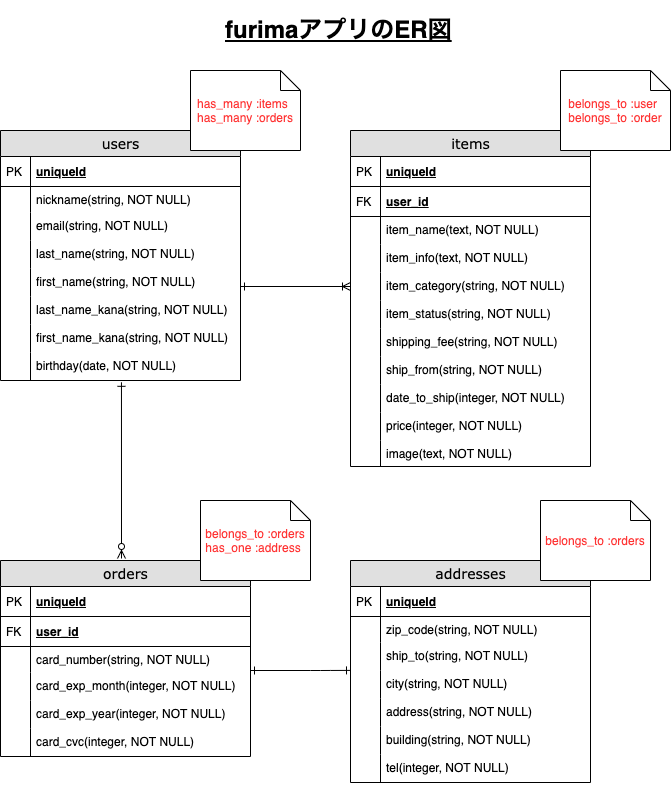
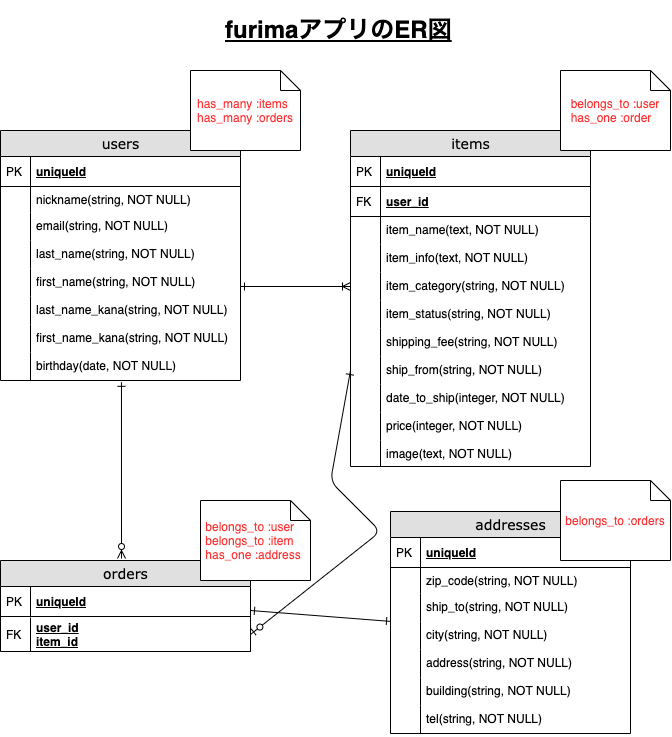
ER図修正&READMEファイル修正
修正完了しました。チェックをお願いします！

diff --git a/README.md b/README.md
@@ -32,40 +32,24 @@
 | ship_from     | string        | null: false      |
 | date_to_ship  | integer		 | null: false      |
 | price         | integer       | null: false      |
-| user_id	    | references    | foregin_key: true |
+| user_id	    | references    | foreign_key: true |
 
 ### Association
 
 - belongs_to :user
+- has_one :order
 
 ## orders テーブル
 
-| Column         | Type  		 | Options 	         |
+| Column         | Type  		    | Options 	        |
 | :------------- | :----------- | :---------------- |
-| card_number    | text  		 | null: false       |
-| card_exp_month | integer      | null: false       |
-| card_exp_year  | integer      | null: false       |
-| card_cvc       | integer      | null: false       |
-| user_id        | references   | foregin_key: true |
+| user_id        | references   | foreign_key: true |
+| item_id        | references   | foreign_key: true |
 
 ### Association
 
 - belongs_to :user
-- has_one :address
-
-## orders テーブル
-
-| Column         | Type  		 | Options 	         |
-| :------------- | :----------- | :---------------- |
-| card_number    | text  		 | null: false       |
-| card_exp_month | integer      | null: false       |
-| card_exp_year  | integer      | null: false       |
-| card_cvc       | integer      | null: false       |
-| user_id        | references   | foregin_key: true |
-
-### Association
-
-- belongs_to :user
+- belongs_to :item
 - has_one :address
 
 ## addresses テーブル
@@ -77,7 +61,7 @@
 | city           | string       | null: false       |
 | address        | string       | null: false       |
 | building       | string       | null: false       |
-| tel            | integer      | null: false       |
+| tel            | string       | null: false       |
 
 ### Association
 
